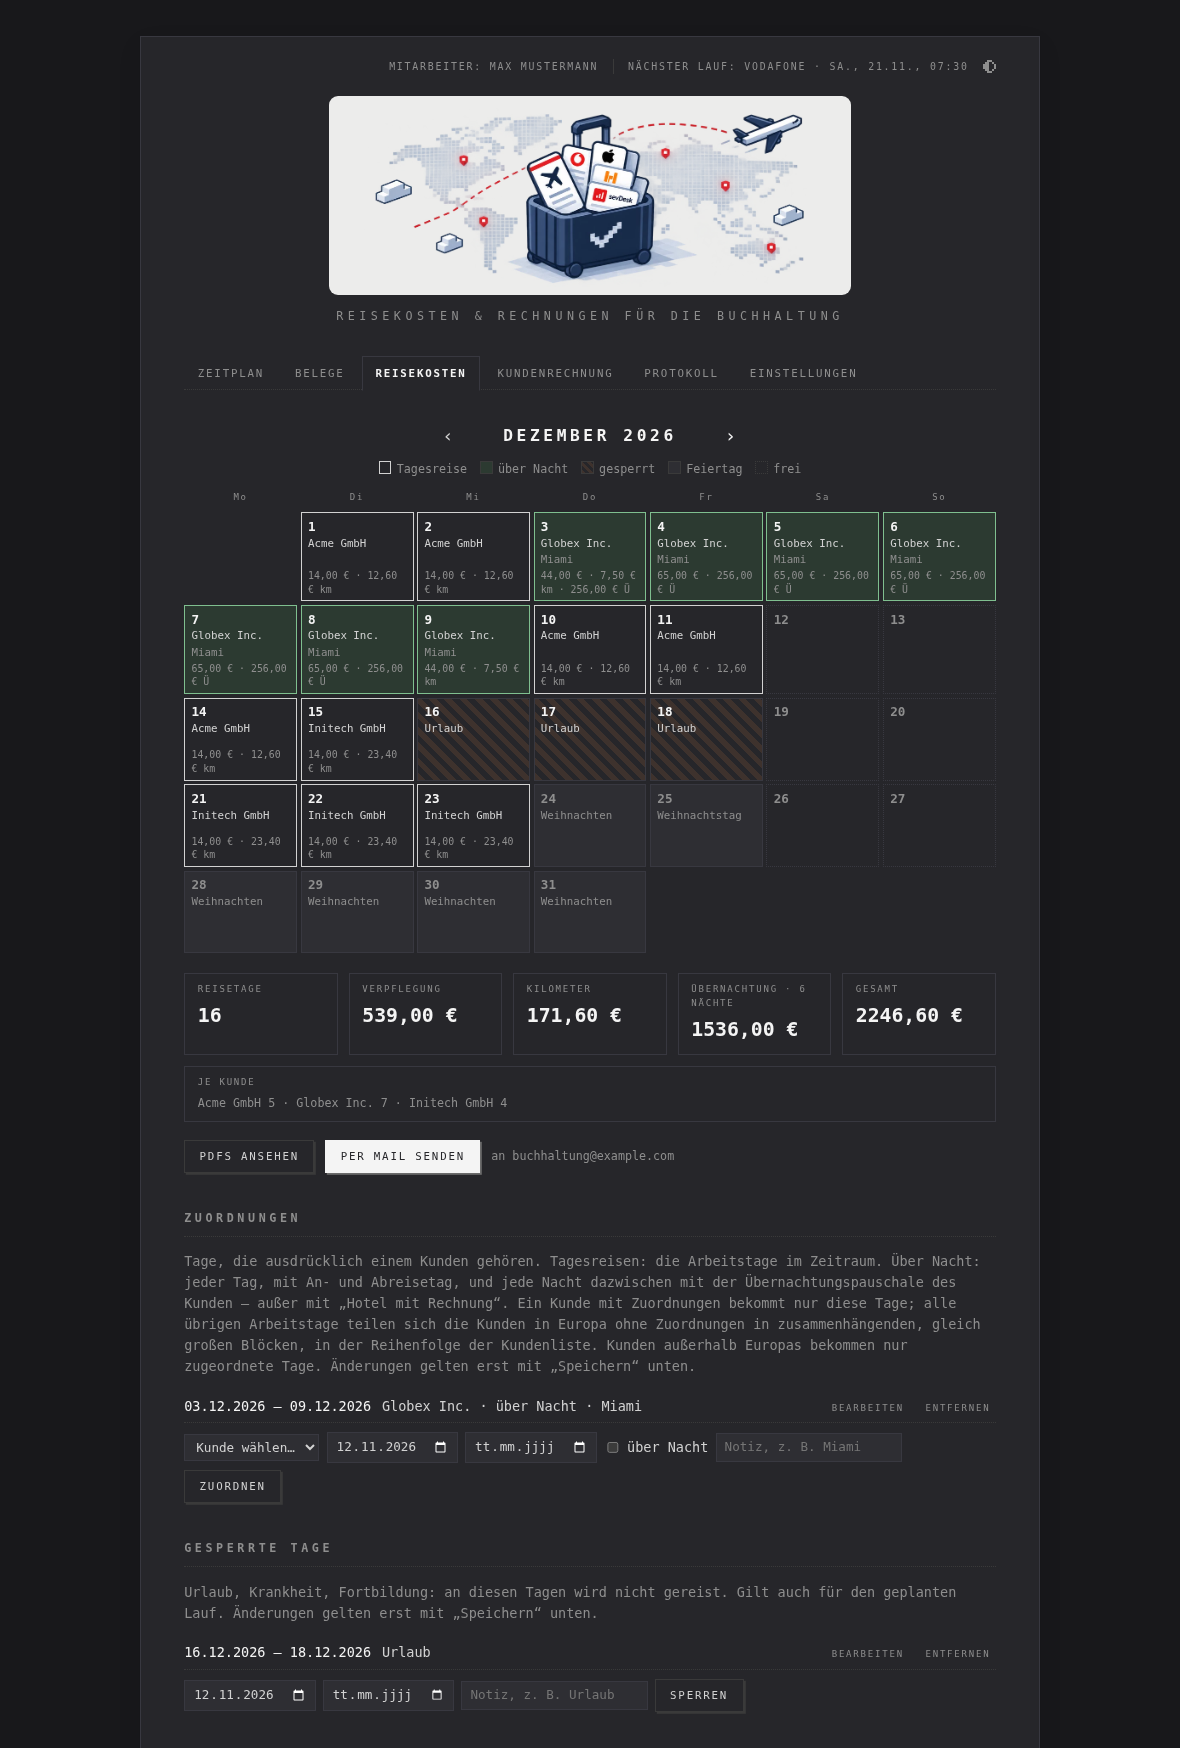
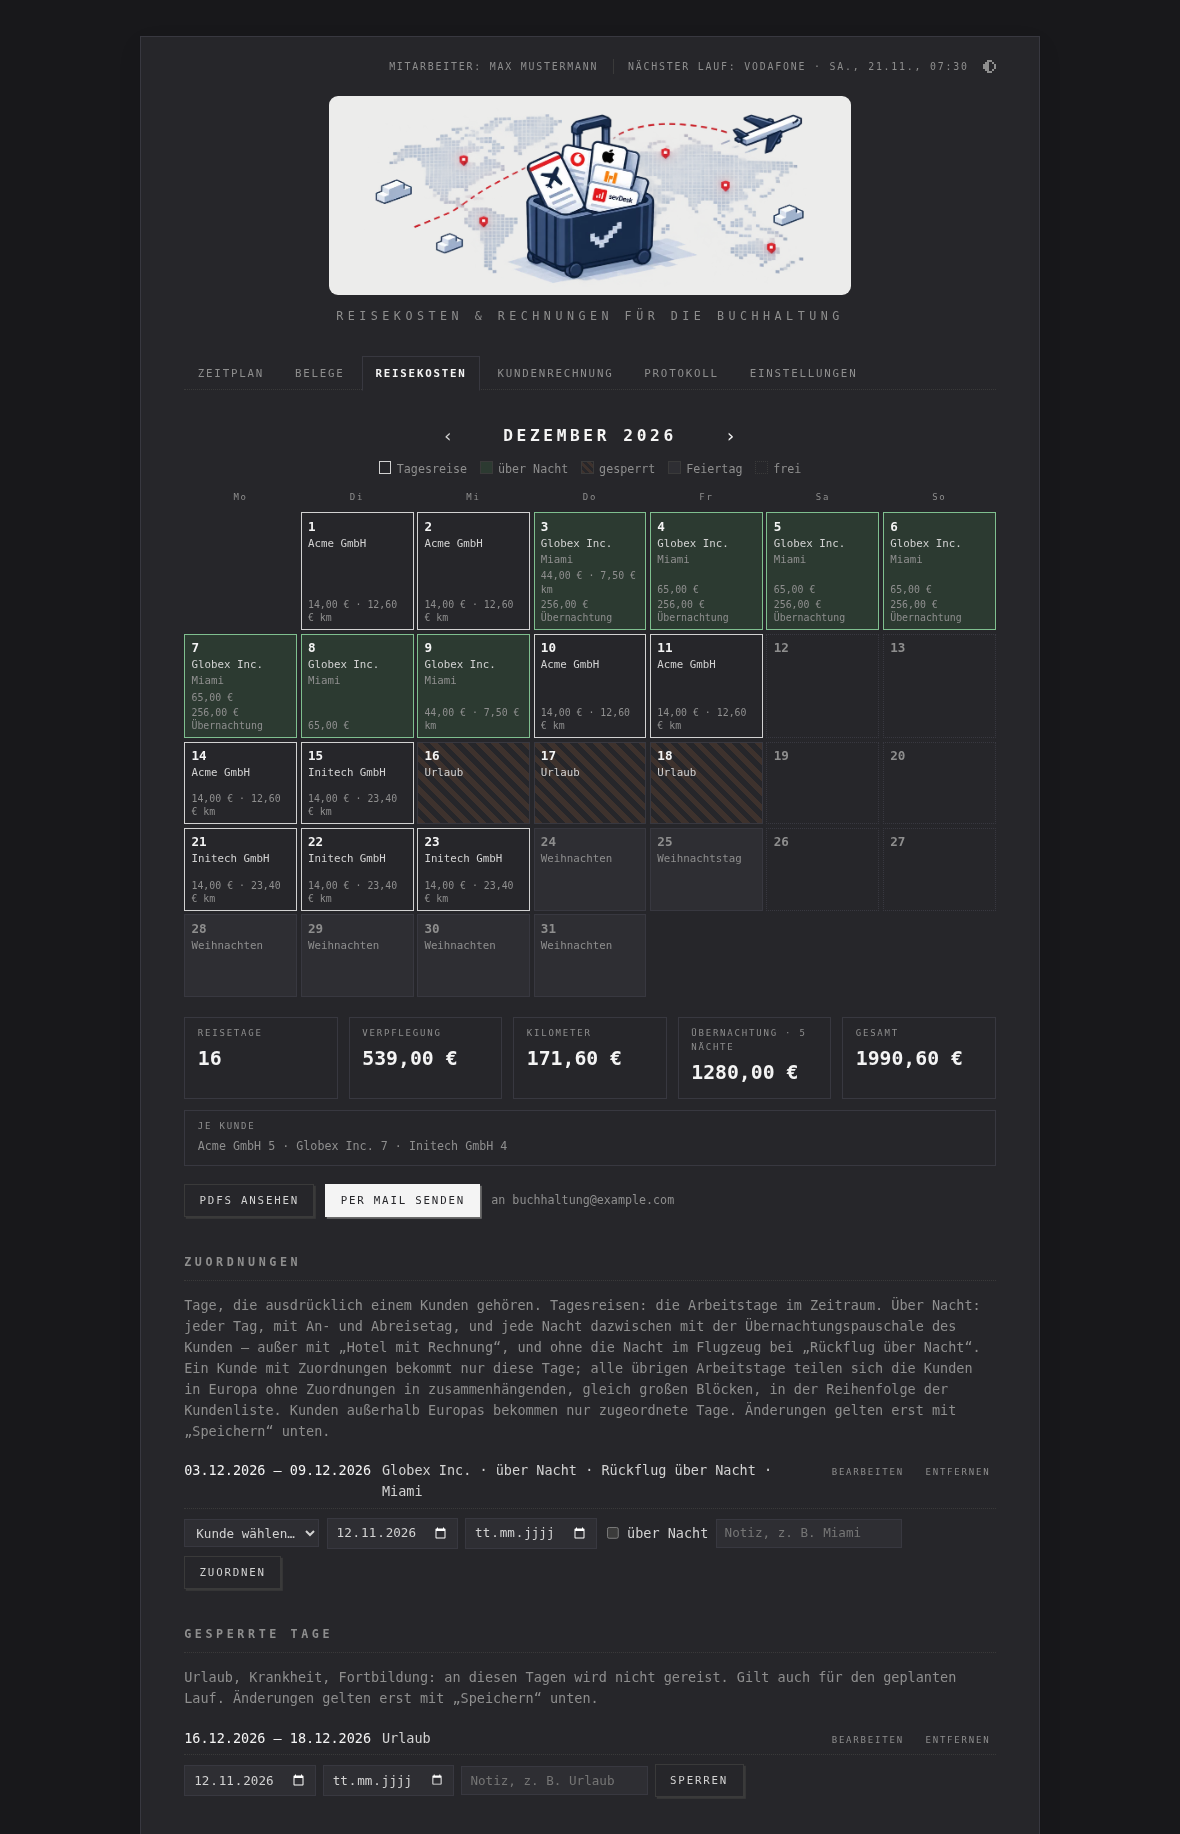
Reisekosten calendar: the night written out, 256,00 € Übernachtung, on a line of its own
Claude-Session: https://claude.ai/code/session_01FXXeyGX9nkbXjdAycGNCsJ

diff --git a/web/app.js b/web/app.js
@@ -272,9 +272,11 @@ function renderCalendar() {
     const classes = ['day', d.kind, d.assigned && 'assigned', d.date === today && 'today', (d.missing || d.lodgingMissing) && 'fallback'].filter(Boolean).join(' ');
     const who = d.client ? el('span', 'who', d.client) : el('span', 'note', d.note || KIND_TEXT[d.kind] || '');
     const eur = d.meal || d.mileage
-      ? el('span', 'eur', `${euro(d.meal)}${d.mileage ? ` · ${euro(d.mileage)} km` : ''}${d.lodging ? ` · ${euro(d.lodging)} Ü` : ''}`) : null;
+      ? el('span', 'eur', `${euro(d.meal)}${d.mileage ? ` · ${euro(d.mileage)} km` : ''}`) : null;
+    // The night's flat rate on a line of its own, the word written out.
+    const night = d.lodging ? el('span', 'eur night', `${euro(d.lodging)} Übernachtung`) : null;
     const cell = el('div', classes, el('span', 'n', String(Number(d.date.slice(8)))), who,
-      d.client && d.note && el('span', 'note muted', d.note), eur);
+      d.client && d.note && el('span', 'note muted', d.note), eur, night);
     cell.title = [dmy(d.date), d.client, d.mealText && `Verpflegung ${d.mealText}`, d.lodging && `Übernachtung ${euro(d.lodging)}`, d.note,
       d.missing && `Satz „${RATE_NAMES[d.missing]}“ des Kunden fehlt — Inlandssatz ${euro(d.meal)}`,
       d.lodgingMissing && `Satz „${RATE_NAMES.lodging}“ des Kunden fehlt — Inlandssatz ${euro(d.lodging)}`].filter(Boolean).join(' · ');

diff --git a/web/style.css b/web/style.css
@@ -179,6 +179,7 @@ label.check input { width: auto; }
 .day .n { font-size: 14px; font-weight: 700; color: var(--headline); }
 .day .who { color: var(--ink); overflow-wrap: anywhere; }
 .day .eur { margin-top: auto; color: var(--muted); font-size: 11px; }
+.day .eur.night { margin-top: 0; } /* beneath the meals and km, together at the cell's foot */
 .day.travel { border-color: var(--ink); background: var(--panel); }
 .day.travel.assigned .who::after { content: ' ★'; color: var(--accent); }
 .day.away { background: var(--away); border-color: var(--ok); }

diff --git a/README.md b/README.md
@@ -390,7 +390,7 @@ A month without any travel day — all of it vacation, say — is logged as noth
 
 ### Nights without a hotel invoice
 
-Without a hotel invoice, the employer may pay a flat rate per night instead, tax free (Übernachtungspauschale): 20 € in Germany, abroad the BMF's rate for the place — Miami 256 €, in the same table as the meal rates. Every **overnight assignment** has a night on each of its days but the last: 3–9 December are six nights, from the 3rd to the 4th up to the 8th to the 9th, each in the month it starts in. The rate is the client's `lodging`, else the inland `lodgingRate` (default 20 €; abroad that is marked red, as with the meal rates). An assignment with `hotel: true` — on the web interface *Hotel mit Rechnung* — has no flat rate: its hotel invoice is accounted on its own, not twice. With `nightFlight: true` — *Rückflug über Nacht* — the night before the day of arrival is spent on the plane, as on the way home from the USA: 3–9 December are five nights then, the last from the 7th to the 8th; the meals stay, the 8th a full day away. The nights come as a third PDF, *Übernachtungspauschale*, and show in the calendar (`256,00 € Ü`) and the totals.
+Without a hotel invoice, the employer may pay a flat rate per night instead, tax free (Übernachtungspauschale): 20 € in Germany, abroad the BMF's rate for the place — Miami 256 €, in the same table as the meal rates. Every **overnight assignment** has a night on each of its days but the last: 3–9 December are six nights, from the 3rd to the 4th up to the 8th to the 9th, each in the month it starts in. The rate is the client's `lodging`, else the inland `lodgingRate` (default 20 €; abroad that is marked red, as with the meal rates). An assignment with `hotel: true` — on the web interface *Hotel mit Rechnung* — has no flat rate: its hotel invoice is accounted on its own, not twice. With `nightFlight: true` — *Rückflug über Nacht* — the night before the day of arrival is spent on the plane, as on the way home from the USA: 3–9 December are five nights then, the last from the 7th to the 8th; the meals stay, the 8th a full day away. The nights come as a third PDF, *Übernachtungspauschale*, and show in the calendar (`256,00 € Übernachtung`) and the totals.
 
 ### travel-expense config options
 
